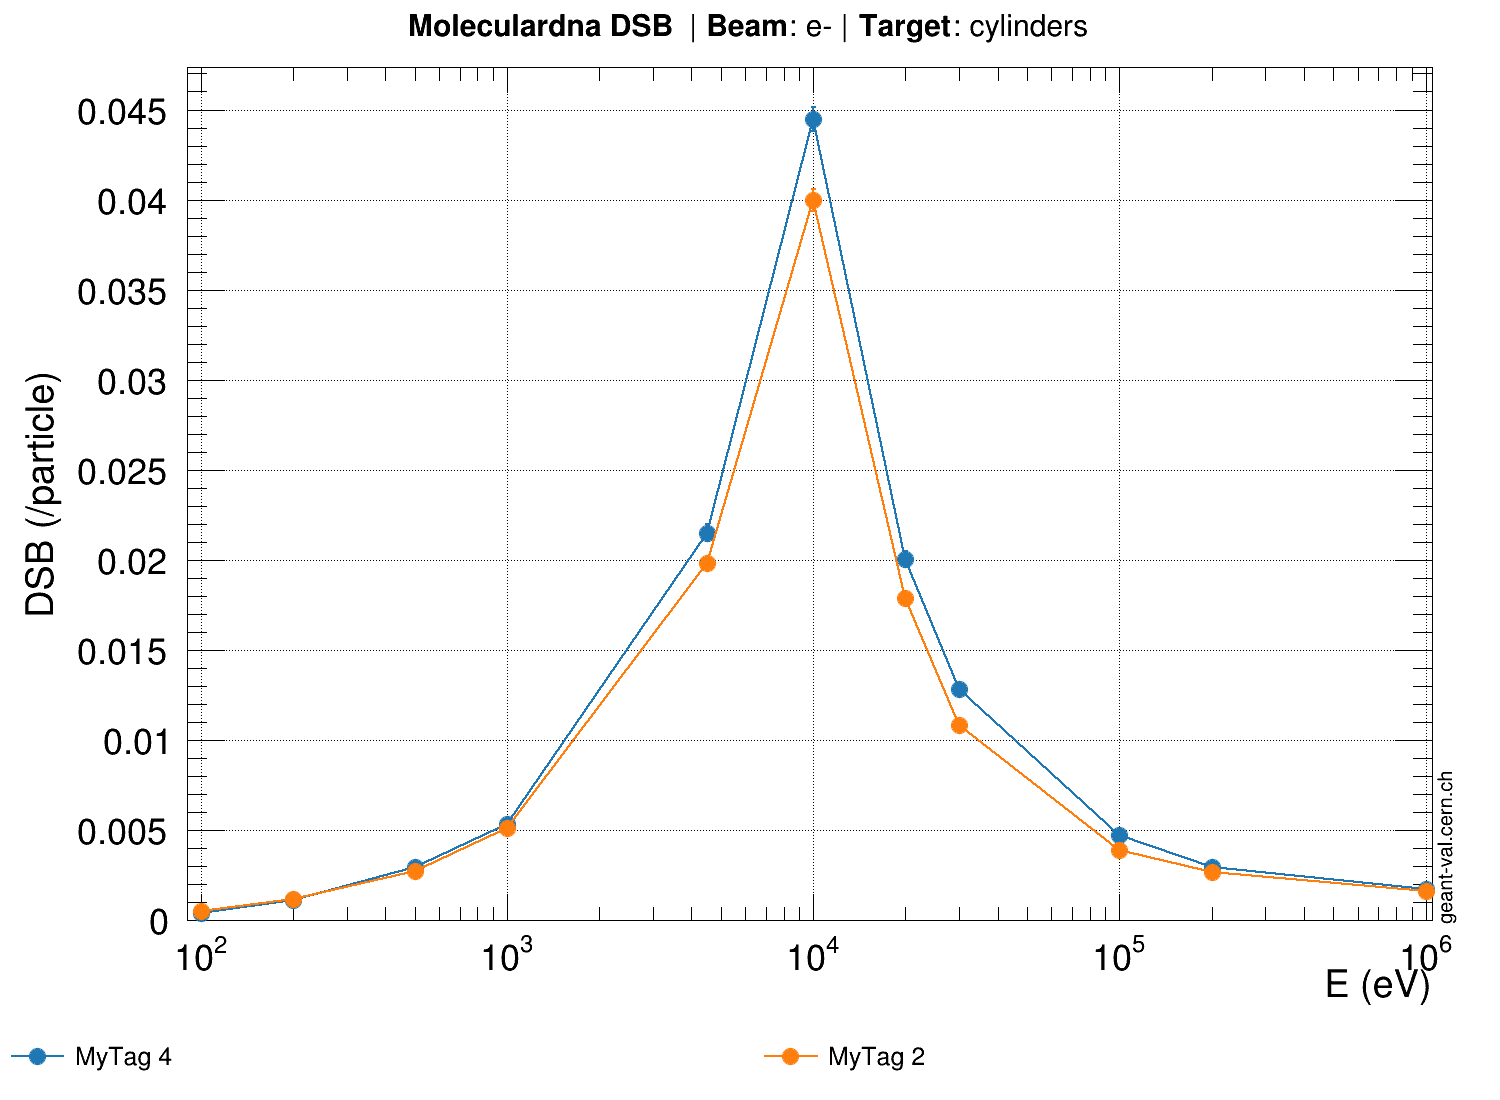
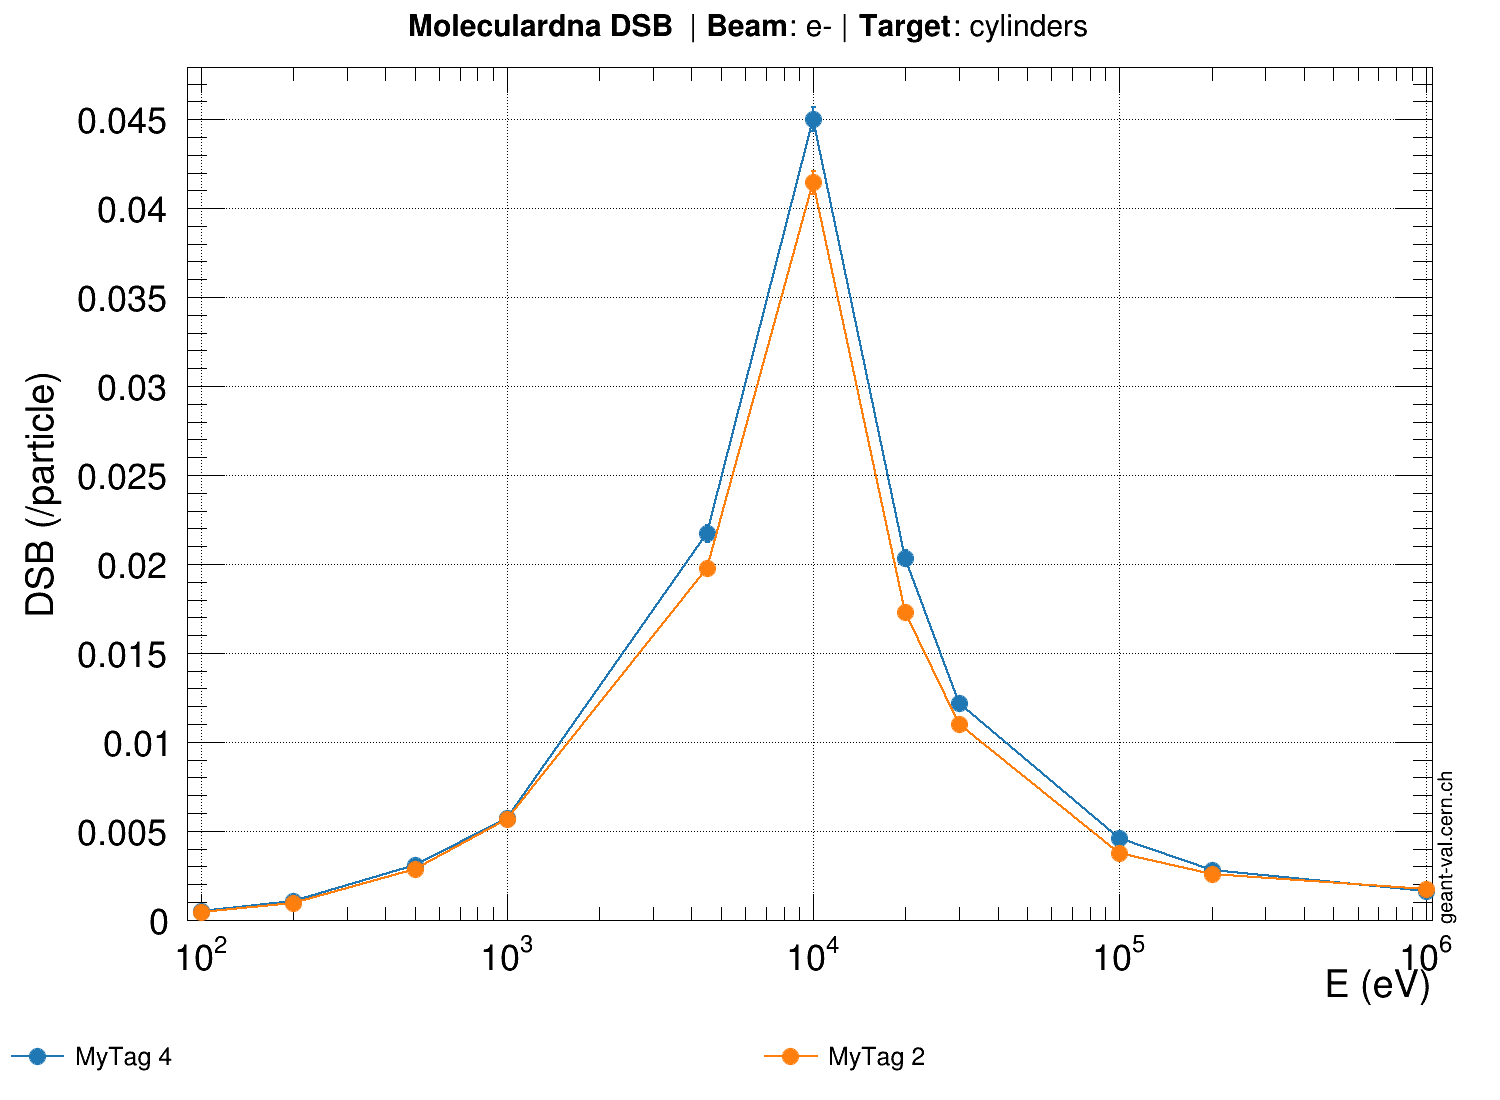
moleculardna/energy.conf/MyTag : ven. juin  2 23:21:55 CEST 2023

diff --git a/assets/OUTPUTJSON/geant4/MyTag/x86_64/moleculardna/energy.conf.c b/assets/OUTPUTJSON/geant4/MyTag/x86_64/moleculardna/energy.conf.c
@@ -958,3 +958,123 @@ double gvp_id-1_yerrors[11] = {
   0.00016196,
   0.000127179
 };
+// Tool:               GEANT4
+// Version:            MyTag
+// Model:              4
+// Observable:         moleculardna DSB
+// Target:             cylinders
+// Beam Particle:      e-
+// Secondary Particle: None
+
+double gvp_id-1_x[11] = {
+  100,
+  200,
+  500,
+  1000,
+  4500,
+  10000,
+  20000,
+  30000,
+  100000,
+  200000,
+  1e+06
+};
+double gvp_id-1_y[11] = {
+  0.00051,
+  0.00103,
+  0.00307,
+  0.00571,
+  0.02172,
+  0.04501,
+  0.02036,
+  0.01219,
+  0.00461,
+  0.00282,
+  0.0016
+};
+double gvp_id-1_xerrors[11] = {
+  0,
+  0,
+  0,
+  0,
+  0,
+  0,
+  0,
+  0,
+  0,
+  0,
+  0
+};
+double gvp_id-1_yerrors[11] = {
+  7.13964e-05,
+  0.000101437,
+  0.000174946,
+  0.000238274,
+  0.000464418,
+  0.000671152,
+  0.000450396,
+  0.000349307,
+  0.000215146,
+  0.000167692,
+  0.00012639
+};
+// Tool:               GEANT4
+// Version:            MyTag
+// Model:              2
+// Observable:         moleculardna DSB
+// Target:             cylinders
+// Beam Particle:      e-
+// Secondary Particle: None
+
+double gvp_id-1_x[11] = {
+  100,
+  200,
+  500,
+  1000,
+  4500,
+  10000,
+  20000,
+  30000,
+  100000,
+  200000,
+  1e+06
+};
+double gvp_id-1_y[11] = {
+  0.00044,
+  0.00096,
+  0.00285,
+  0.00565,
+  0.01977,
+  0.04144,
+  0.01731,
+  0.01103,
+  0.00376,
+  0.00257,
+  0.00172
+};
+double gvp_id-1_xerrors[11] = {
+  0,
+  0,
+  0,
+  0,
+  0,
+  0,
+  0,
+  0,
+  0,
+  0,
+  0
+};
+double gvp_id-1_yerrors[11] = {
+  6.63182e-05,
+  9.7933e-05,
+  0.000168579,
+  0.000237026,
+  0.00044429,
+  0.000642831,
+  0.00041654,
+  0.000334192,
+  0.000194059,
+  0.00016073,
+  0.000131797
+};
